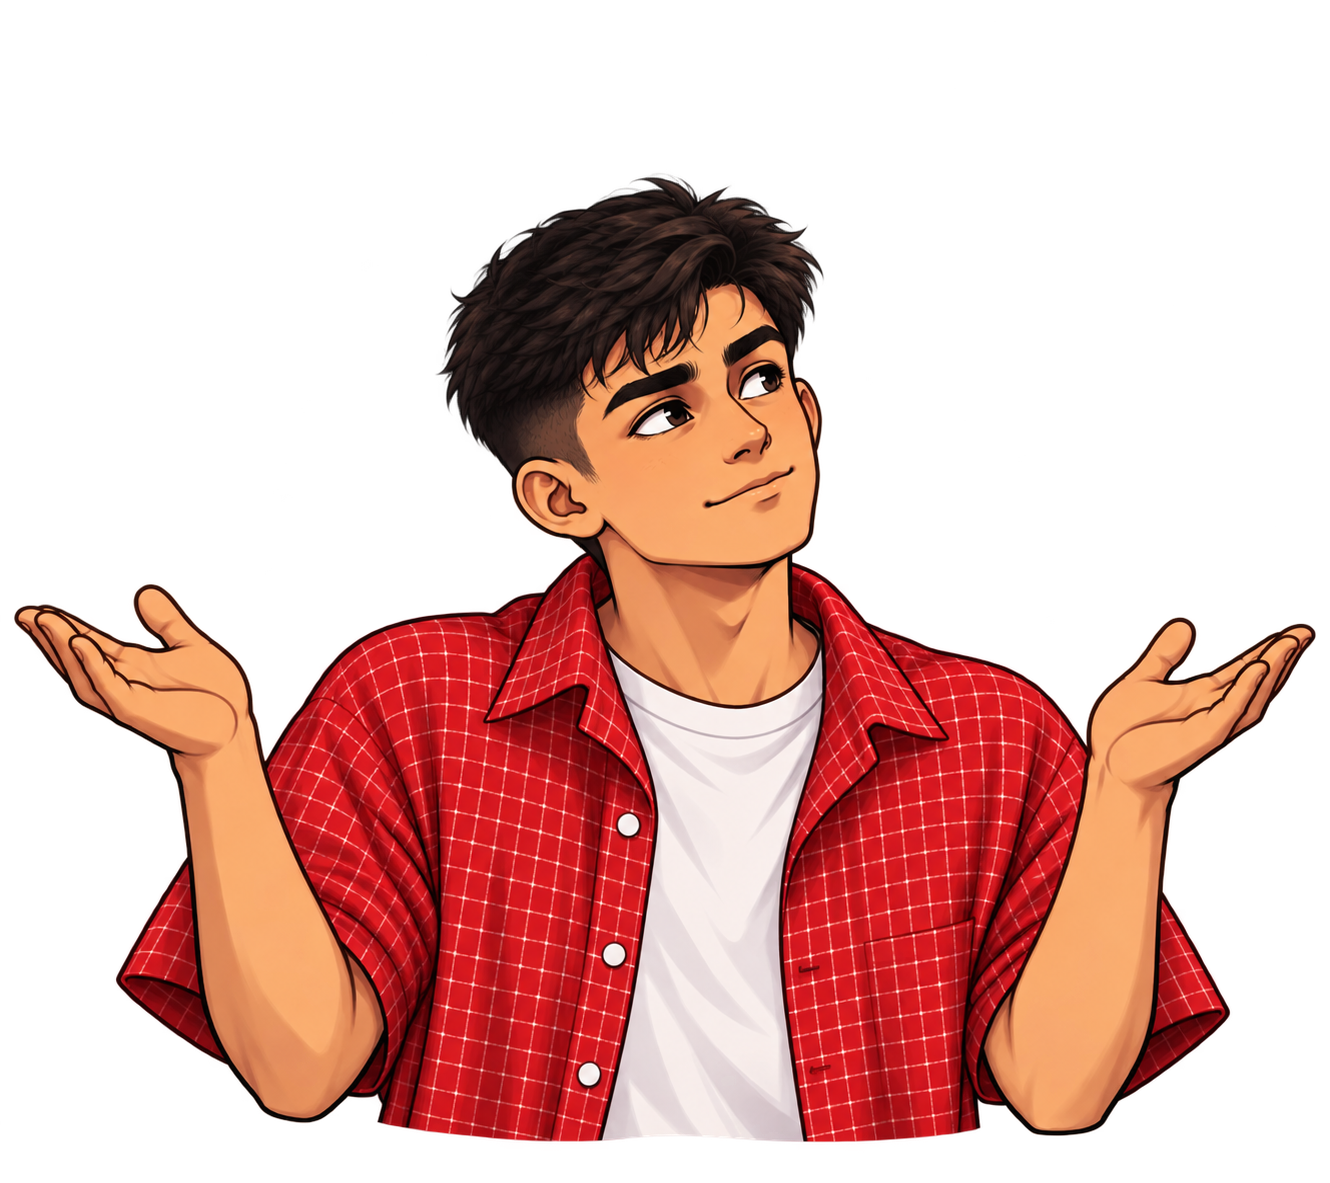
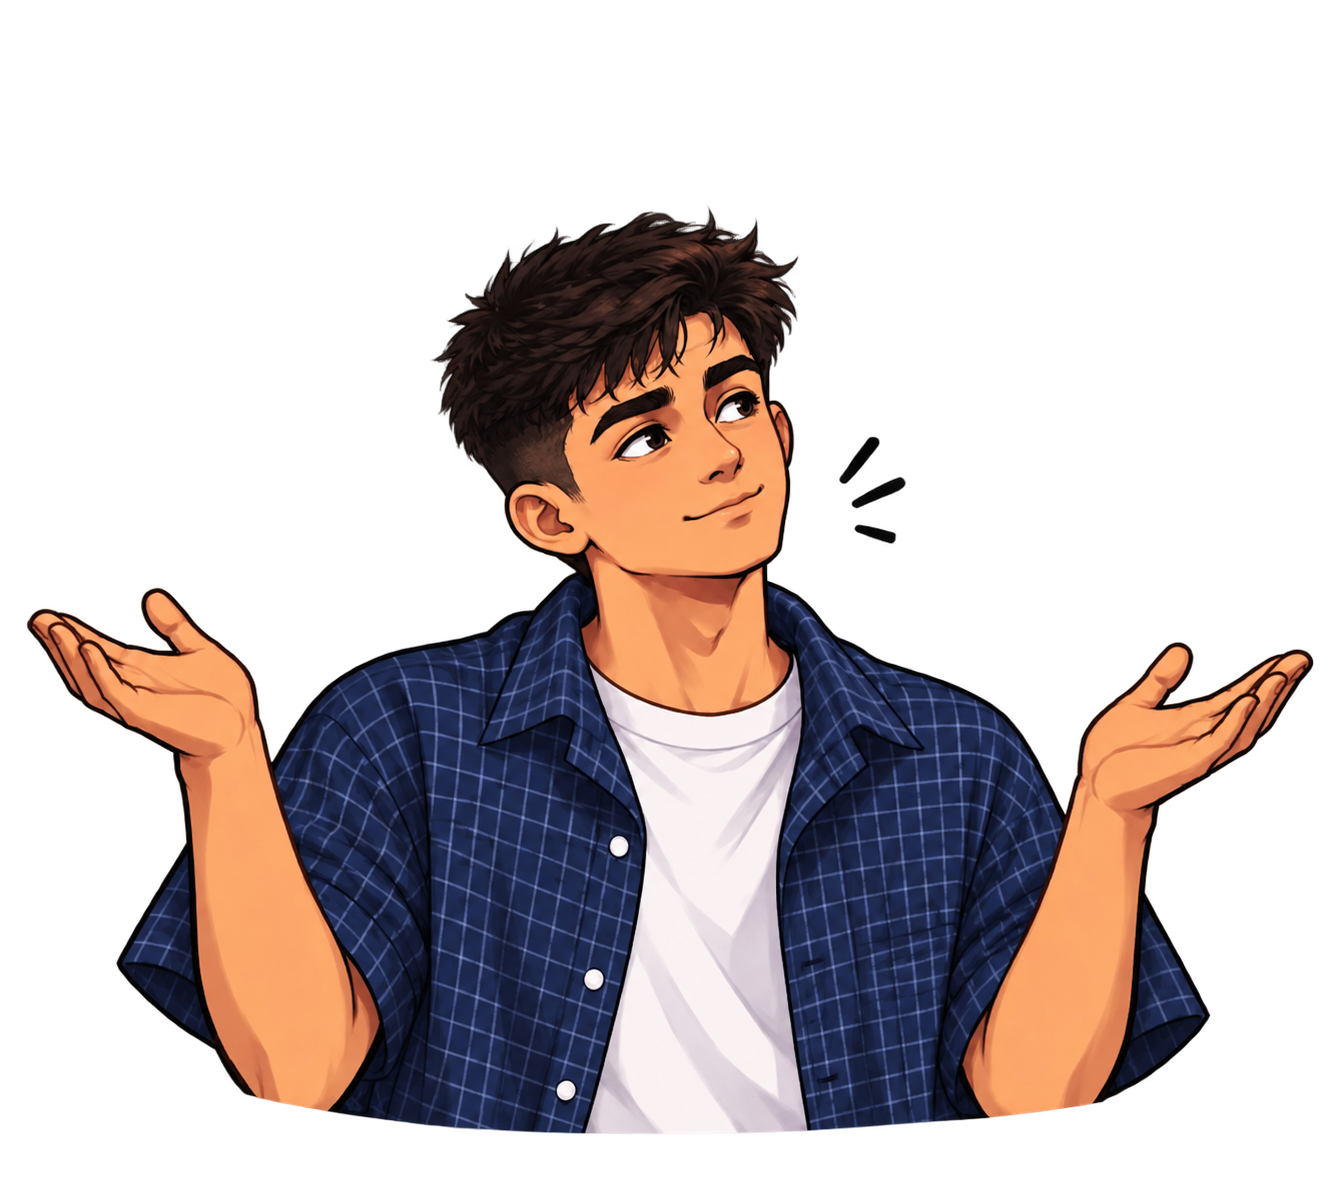
refactor MailBox component by removing unused refs and simplifying animations; update ProfileCard with new location and title

Changed region(s): [[0.0, 0.1523, 0.9865, 0.9746]]

diff --git a/src/_components/MailBox.jsx b/src/_components/MailBox.jsx
@@ -5,50 +5,22 @@ import gsap from "gsap";
 import Link from "next/link";
 
 export default function MailBox() {
-  const buttonRef = useRef(null);
   const avatarRef = useRef(null);
-  const arrowRef = useRef(null);
 
   const handleMouseEnter = () => {
-    gsap.to(buttonRef.current, {
-      y: -3,
-      duration: 0.3,
-      ease: "power2.out",
-    });
-
     gsap.to(avatarRef.current, {
       scale: 1.1,
       rotate: -5,
       duration: 0.35,
       ease: "back.out(1.7)",
     });
-
-    gsap.to(arrowRef.current, {
-      x: 3,
-      y: -2,
-      duration: 0.25,
-      ease: "power2.out",
-    });
   };
 
   const handleMouseLeave = () => {
-    gsap.to(buttonRef.current, {
-      y: 0,
-      duration: 0.3,
-      ease: "power2.inOut",
-    });
-
     gsap.to(avatarRef.current, {
       scale: 1,
       rotate: 0,
       duration: 0.35,
-      ease: "power2.inOut",
-    });
-
-    gsap.to(arrowRef.current, {
-      x: 0,
-      y: 0,
-      duration: 0.25,
       ease: "power2.inOut",
     });
   };
@@ -75,7 +47,6 @@ export default function MailBox() {
 
       <Link
         href="/mailbox"
-        ref={buttonRef}
         className="relative z-10 w-40 h-10 bg-white rounded-lg flex items-center justify-center gap-3"
       >
         <img

diff --git a/src/_components/ProfileCard.jsx b/src/_components/ProfileCard.jsx
@@ -82,8 +82,8 @@ export default function ProfileCard() {
           <div className="profile-heading">
             <div>
               <h1>Dhruv Jha</h1>
-              <p>21, New Delhi</p>
-              <p>Creative Web Developer</p>
+              <p className="text-sm">New Delhi</p>
+              <p>Product Designer</p>
             </div>
           </div>
 
